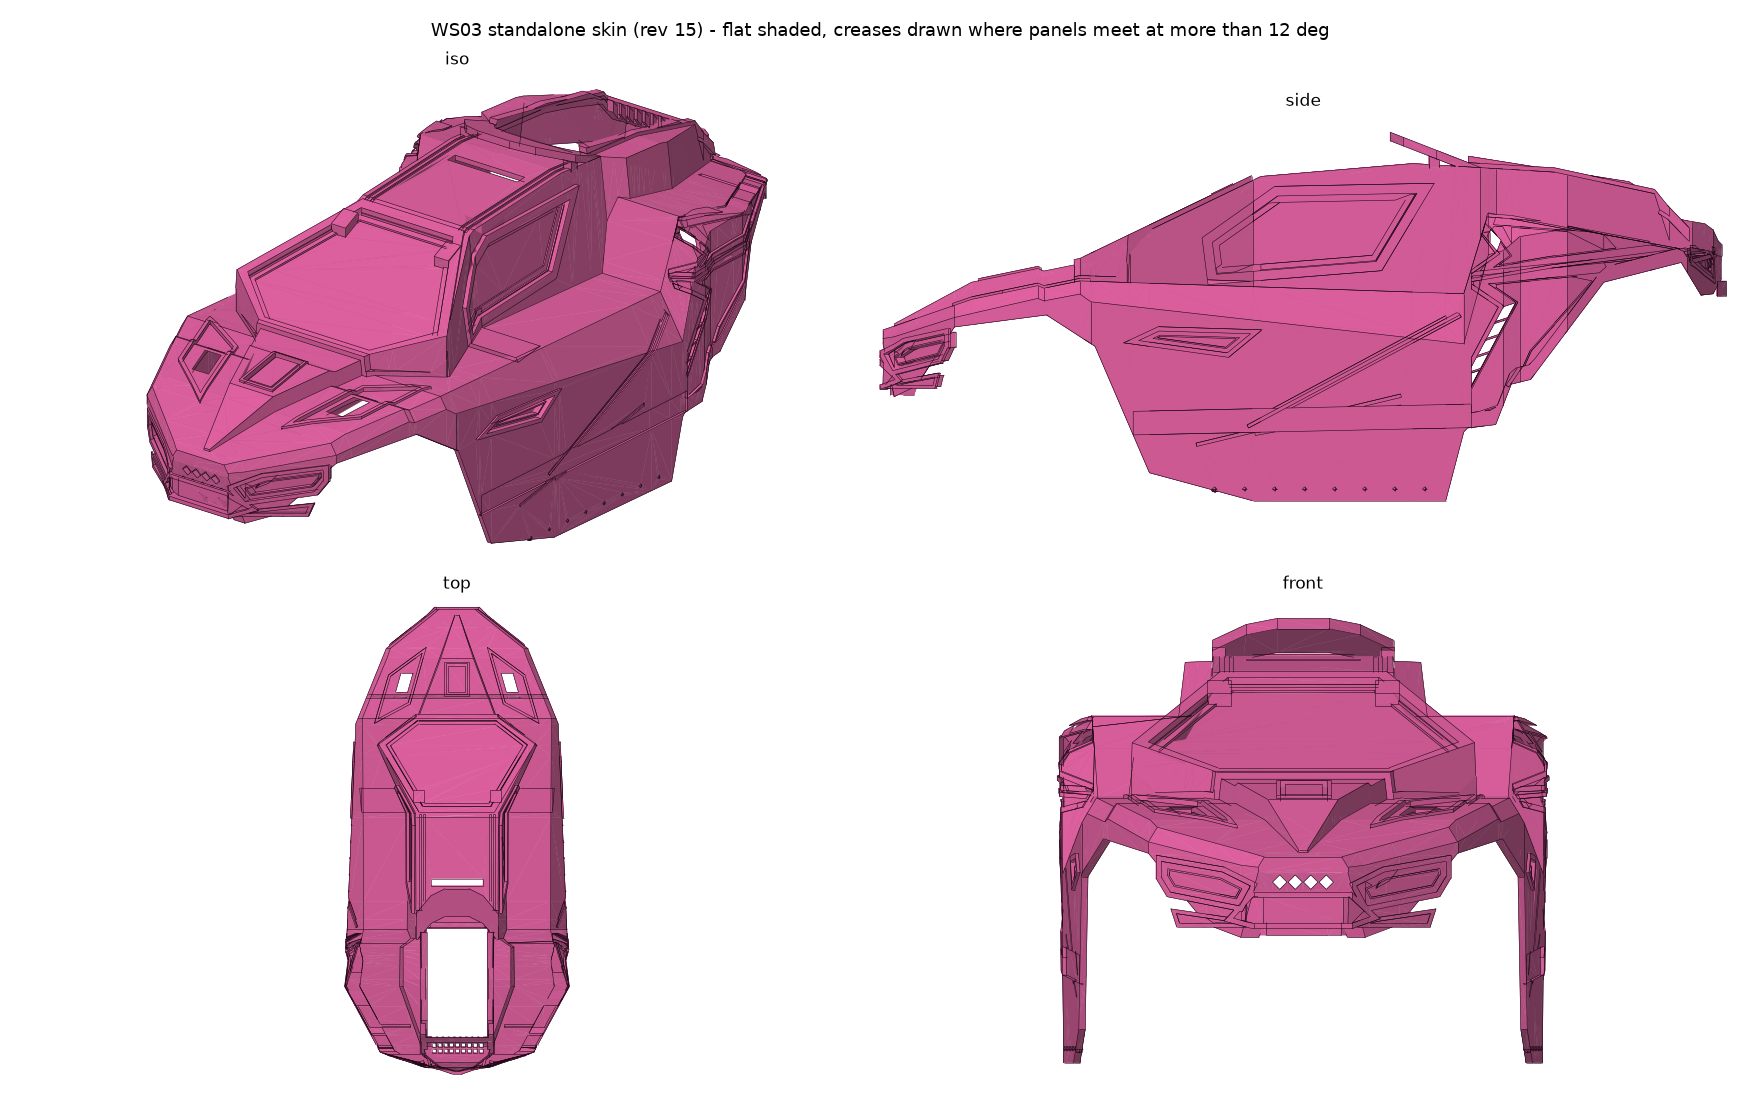
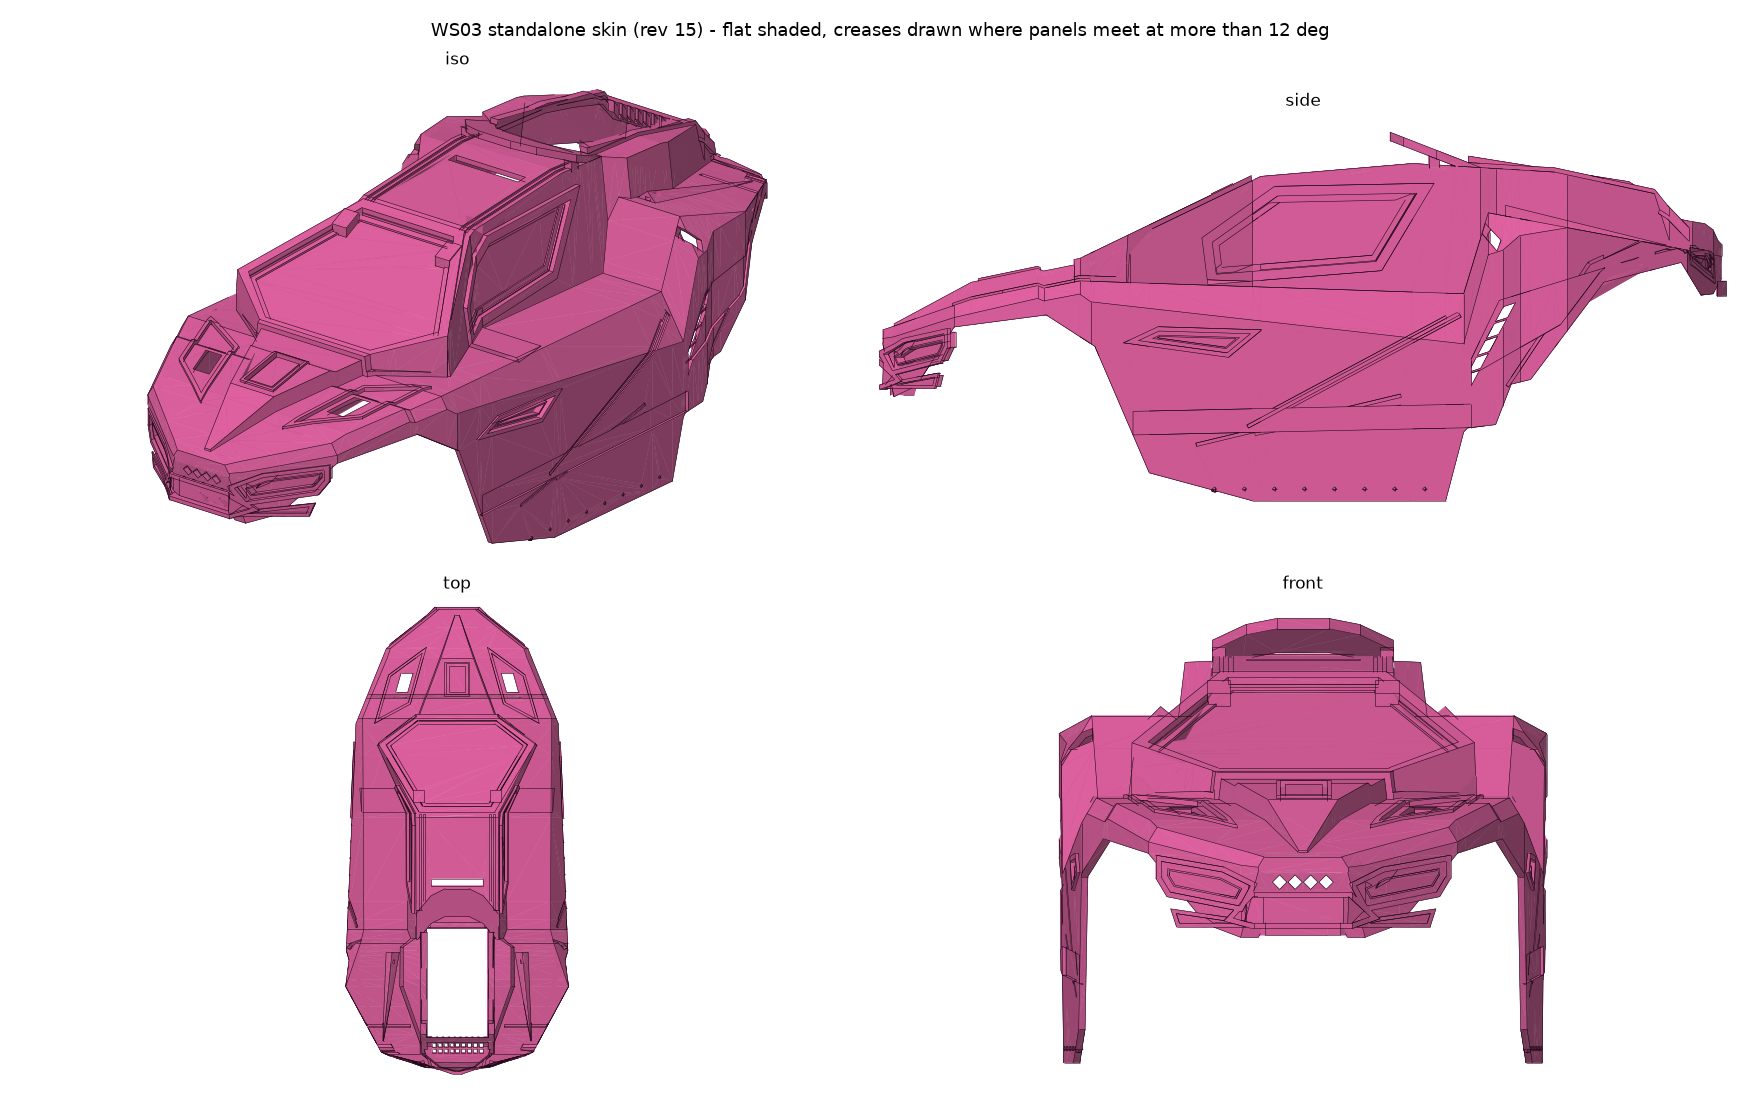
Concept skin rev 15b: vents as low faceted triangular tents (upper on the shoulder, lower in a flank recess), through slots at the dark strips; watertight, plan IoU 0.984, side 0.952

diff --git a/ws02/skin7.py b/ws02/skin7.py
@@ -446,10 +446,26 @@ def details13(body, S0, solid_fn):
     QB = (_band(1) + _band(-1)) ^ _above                                   # flank strip only: the projection must not touch the deck, tail face or other surfaces
     P_quarter = lambda p: P_side(p) ^ QB
     SX = lambda pts: [(Xp(a + 0.7), Zp(a, b + 0.45)) for a, b in pts]
-    UP = [(553, 500), (700, 511), (723, 522), (660, 530), (612, 536), (547, 547), (574, 528)]                 # swallow-tail wedge panel
-    apply("upper rear intake panel", "side", P_quarter, SX(UP), bezel=(1.5, 0.8), cuts=((0, 0.8), (4.0, 1.6)))
-    LO = [(546, 545), (736, 526), (650, 550), (603, 603), (585, 643), (484, 677), (544, 628), (577, 566)]      # swept panel down to the rear sill
-    apply("lower rear intake panel", "side", P_quarter, SX(LO), bezel=(2.0, 0.4), cuts=((0, 0.8), (5.0, 1.6)))
+    # rev 15b: the two vents are low faceted triangular "tents" hugging the rear quarter, opening to the front, one above the other
+    for s_ in (1, -1):
+        # upper tent: on the shoulder beside the engine bay, apex swept back toward the tail corner
+        xf, xa = -256.0, -331.0
+        F = [(xf, 48.0), (xf, 62.0), (xa, 64.0), (xa, 61.0)]
+        pts = [(x, s_ * y, surf(x, y) - 2.0) for x, y in F] + [(xf, s_ * 55.0, surf(xf, 55.0) + 5.0), (xa, s_ * 62.5, surf(xa, 62.5) + 0.5)]
+        tent = Manifold.hull_points(np.array(pts, float))
+        mouth = Manifold.hull_points(np.array([(x, s_ * y, surf(xf - 1.0, 55.0) + z) for x in (xf + 0.5, xf - 9.0) for y in (53.5, 56.5) for z in (0.4, 2.0)], float))
+        body = body + tent - mouth
+        # lower tent: a shallow recess in the flank with a low faceted tent standing in it (nothing leaves the outline)
+        p1, p2, pa = SX([(577, 566)])[0], SX([(556, 610)])[0], SX([(700, 528)])[0]
+        tri = [p1, p2, pa]
+        body = body - (lay_in(1.4) ^ P_quarter(_grow(tri, 3.0))) if s_ == 1 else body - (lay_in(1.4) ^ P_quarter(_grow(tri, 3.0)))
+        fm = ((p1[0] + p2[0]) / 2.0, (p1[1] + p2[1]) / 2.0)
+        yb = lambda x: s_ * (hw(x) - 1.7)
+        yr = lambda x: s_ * (hw(x) - 0.25)
+        lp = [(p1[0], yb(p1[0]), p1[1]), (p2[0], yb(p2[0]), p2[1]), (pa[0], yb(pa[0]), pa[1]), (fm[0], yr(fm[0]), fm[1]), (pa[0] + 0.0, yr(pa[0]), pa[1])]
+        body = body + Manifold.hull_points(np.array(lp, float))
+    DETAILS.append(("upper vent tent", "top", 4, "raised faceted triangular tent 5 mm high on the shoulder, 75 mm swept back, 3 x 1.6 mm mouth at the front"))
+    DETAILS.append(("lower vent tent", "side", 3, "triangle recess 1.4 mm in the flank with a 1.15 mm tent inside it, opening forward"))
     thru = lambda poly: (lay_in(0.0) if False else (solid_fn(-1.0) - solid_fn(5.0))) ^ P_quarter(poly)        # through the 2.4 mm wall
     US = [(549, 499), (556, 498), (575, 518), (572, 526)]                   # dark orange: slot at the front notch
     body = body - thru(SX(US))

diff --git a/ws02/WS03_SHELL_CONCEPT.md b/ws02/WS03_SHELL_CONCEPT.md
@@ -432,3 +432,5 @@ Widths (half width, mm; reference read from the sheet 61 plan, +-3 mm; `tools_sk
 Fix: the scoops moved from the ridge (y 19-35) onto the traced hood panels (36-57 reference; now 38-51); the glass base went from 50 to 60 mm half width (reference about 66), front 24 to 33, header 27 to 29 (the roof ridge there is 35). The outline is untouched: plan IoU 0.982 (v14 0.983), side 0.954. Overlay on the reference plan: `out/WS03_rev15_top_vs_ref.png`. The body outline is the user's mask, so it stays wider than the reference at the hood front (50 vs 36 mm); that is the mask, not the details.
 
 Rear-quarter intakes (sheet 62 markup, int_side / int_top): light areas are shallow faceted panels (bezel 0.4-0.8 mm proud, recess 0.8 mm, inner step 1.6 mm), the dark strips are the real openings, cut through the 2.4 mm wall: dark orange = one 4.5 x 19 mm slot at the front notch of the upper swallow-tail panel; dark green = 5 slanted slots separated by 1.6 mm bars along the leading edge of the lower swept panel. Old fender vent pocket and the three slits per side removed. Skin and both pieces watertight; panel edges under 15 deg: 92 (7.8 %), up from 78. Rev 9 chassis rebuilt unchanged (8462 faces, 393198 mm3).
+
+**Rev 15b (user markup on the top view, "Ducts"; shallow faceted panels).** The two vents are now low faceted triangular tents hugging the rear quarter, opening to the front, one above the other. Upper: a tent 5 mm high on the shoulder beside the engine bay (front edge x -256, 14 mm wide, swept back 75 mm to a point near the tail corner), with a 3 x 1.6 mm mouth cut into its front face; plus the dark-orange through slot at the notch. Lower: a triangular 1.4 mm recess in the flank with a 1.15 mm tent standing in it (nothing leaves the outline), plus the five dark-green through slots along its leading edge. The earlier flat recessed panels are gone. Watertight (skin 11508 faces, volume 338064 mm3); plan IoU 0.984, side 0.952; panel edges under 15 deg 79 (8.1 %). The rev 9 chassis build was not re-run after this edit (the edit is inside the standalone-only detail code).
